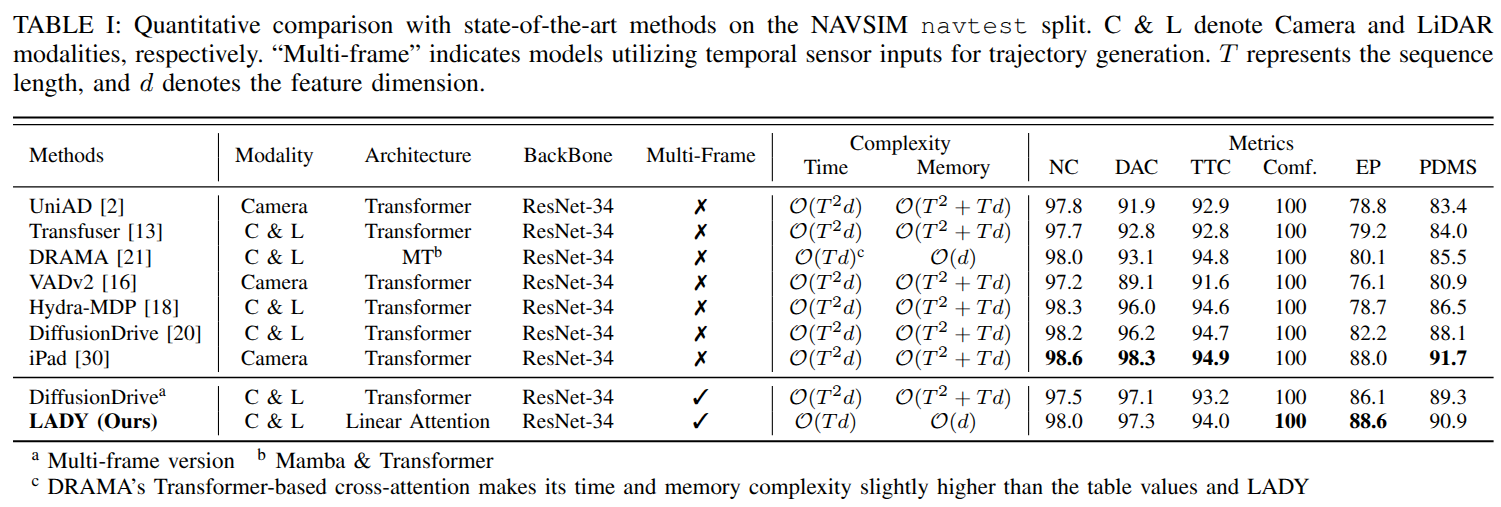
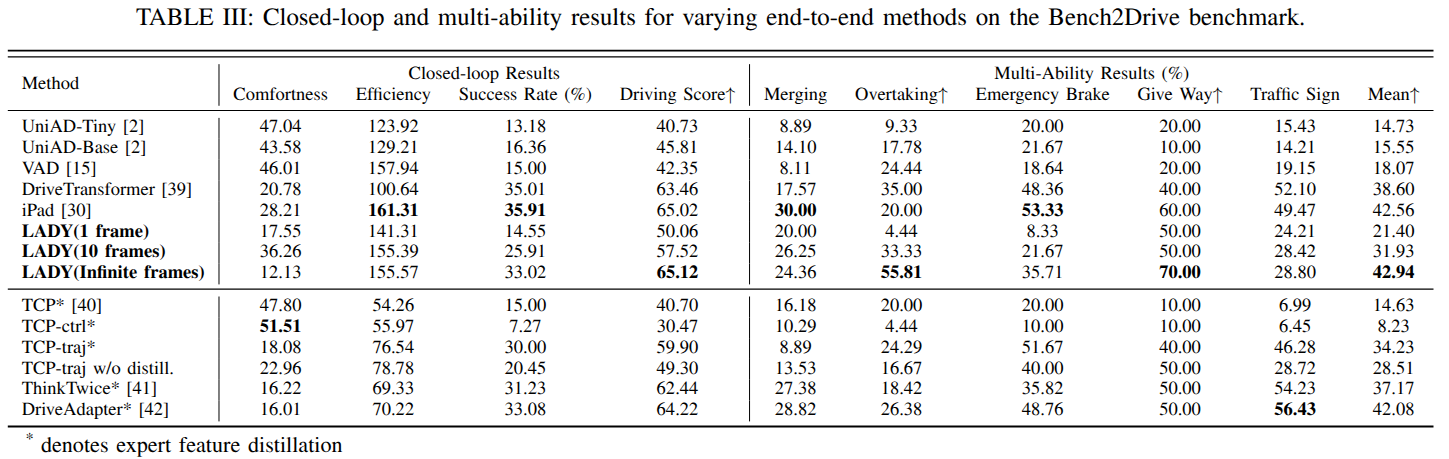
Enlarge results section and add ablation visuals

Changed region(s): [[0.0, 0.0, 0.9938, 1.0]]

diff --git a/index.html b/index.html
@@ -351,7 +351,7 @@ Transformers</h1>
 
 <!-- Teaser video-->
 <section class="hero teaser">
-  <div class="container is-max-desktop">
+  <div class="container is-max-widescreen">
     <div class="hero-body">
       <!-- TODO: Replace with your video description -->
       <h2 class="title is-4 has-text-centered">
@@ -361,7 +361,7 @@ Transformers</h1>
         Navsim v1
       </h3>
       <div class="columns is-centered">
-        <div class="column is-10">
+        <div class="column is-12">
           <img
             src="static/images/experiments/navsim_table.png"
             alt="NAVSIM-v1 benchmark results table"
@@ -382,7 +382,7 @@ Transformers</h1>
         Bench2Drive
       </h3>
       <div class="columns is-centered">
-        <div class="column is-10">
+        <div class="column is-12">
           <img
             src="static/images/experiments/Bench2drive_table.png"
             alt="Bench2Drive benchmark results table"
@@ -463,8 +463,19 @@ Transformers</h1>
             loading="lazy"
             style="width: 100%; height: auto;"
           />
+          <div style="margin-top: 1.25rem;">
+            <img
+              src="static/images/experiments/lica_ablation.png"
+              alt="LICA ablation results"
+              loading="lazy"
+              style="width: 100%; height: auto;"
+            />
+          </div>
         </div>
       </div>
+      <p class="has-text-justified" style="margin-top: 1.25rem;">
+        Increasing temporal history improves performance, and LADY generalizes beyond its training window by updating a compact temporal state, maintaining or improving results when input frames exceed the training length. Models lacking a fully linear design (Transfuser, DiffusionDrive, DRAMA, and a LADY variant with standard cross-attention) degrade as history grows, while LICA consistently yields stronger accuracy and temporal extrapolation. This highlights LADY's ability to aggregate long-range temporal context efficiently for real-time driving.
+      </p>
     </div>
   </div>
 </section>
